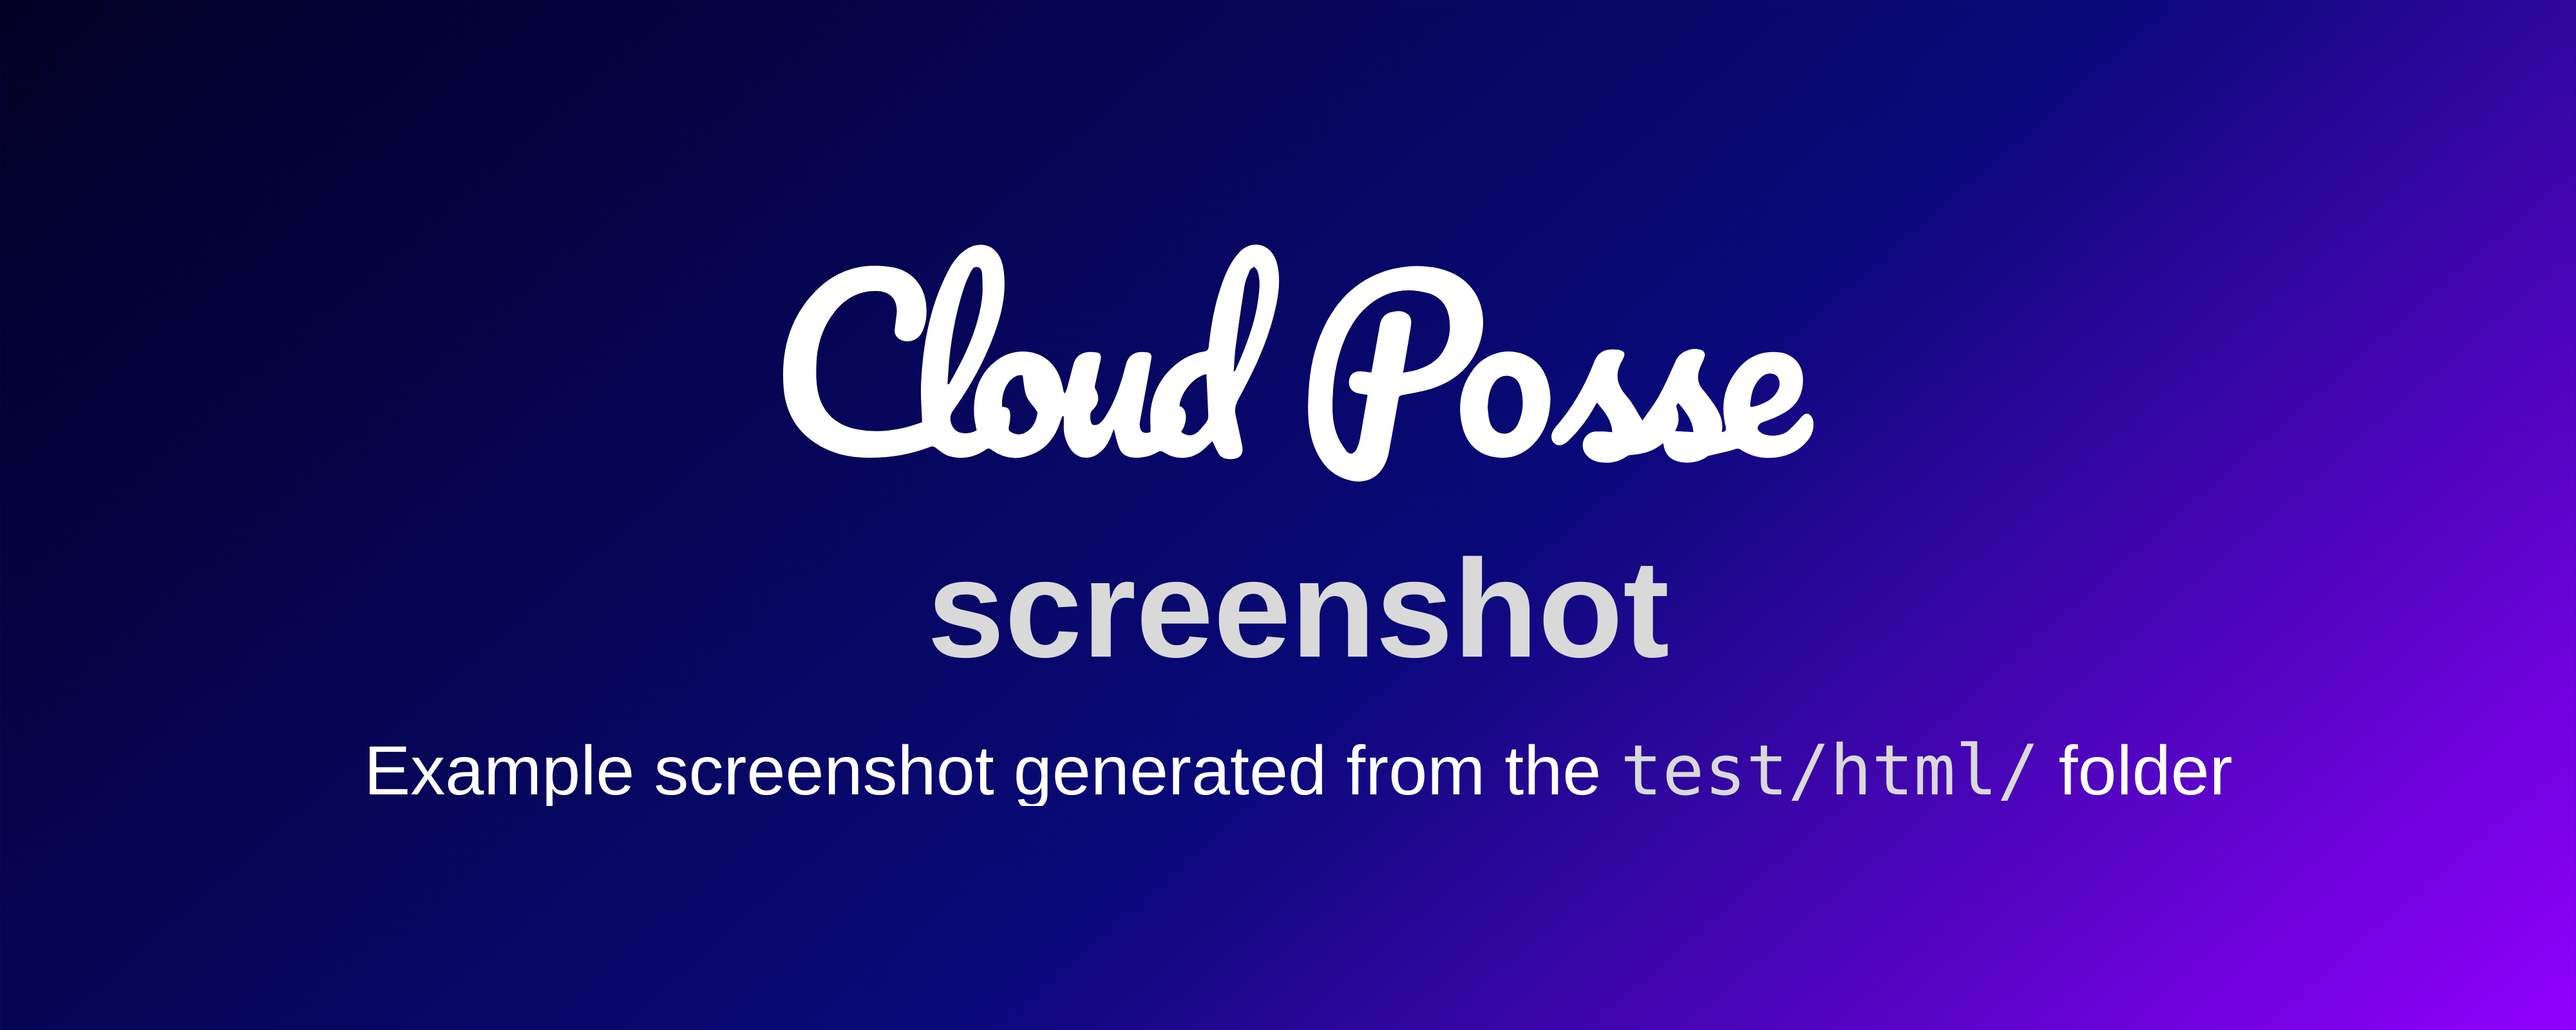
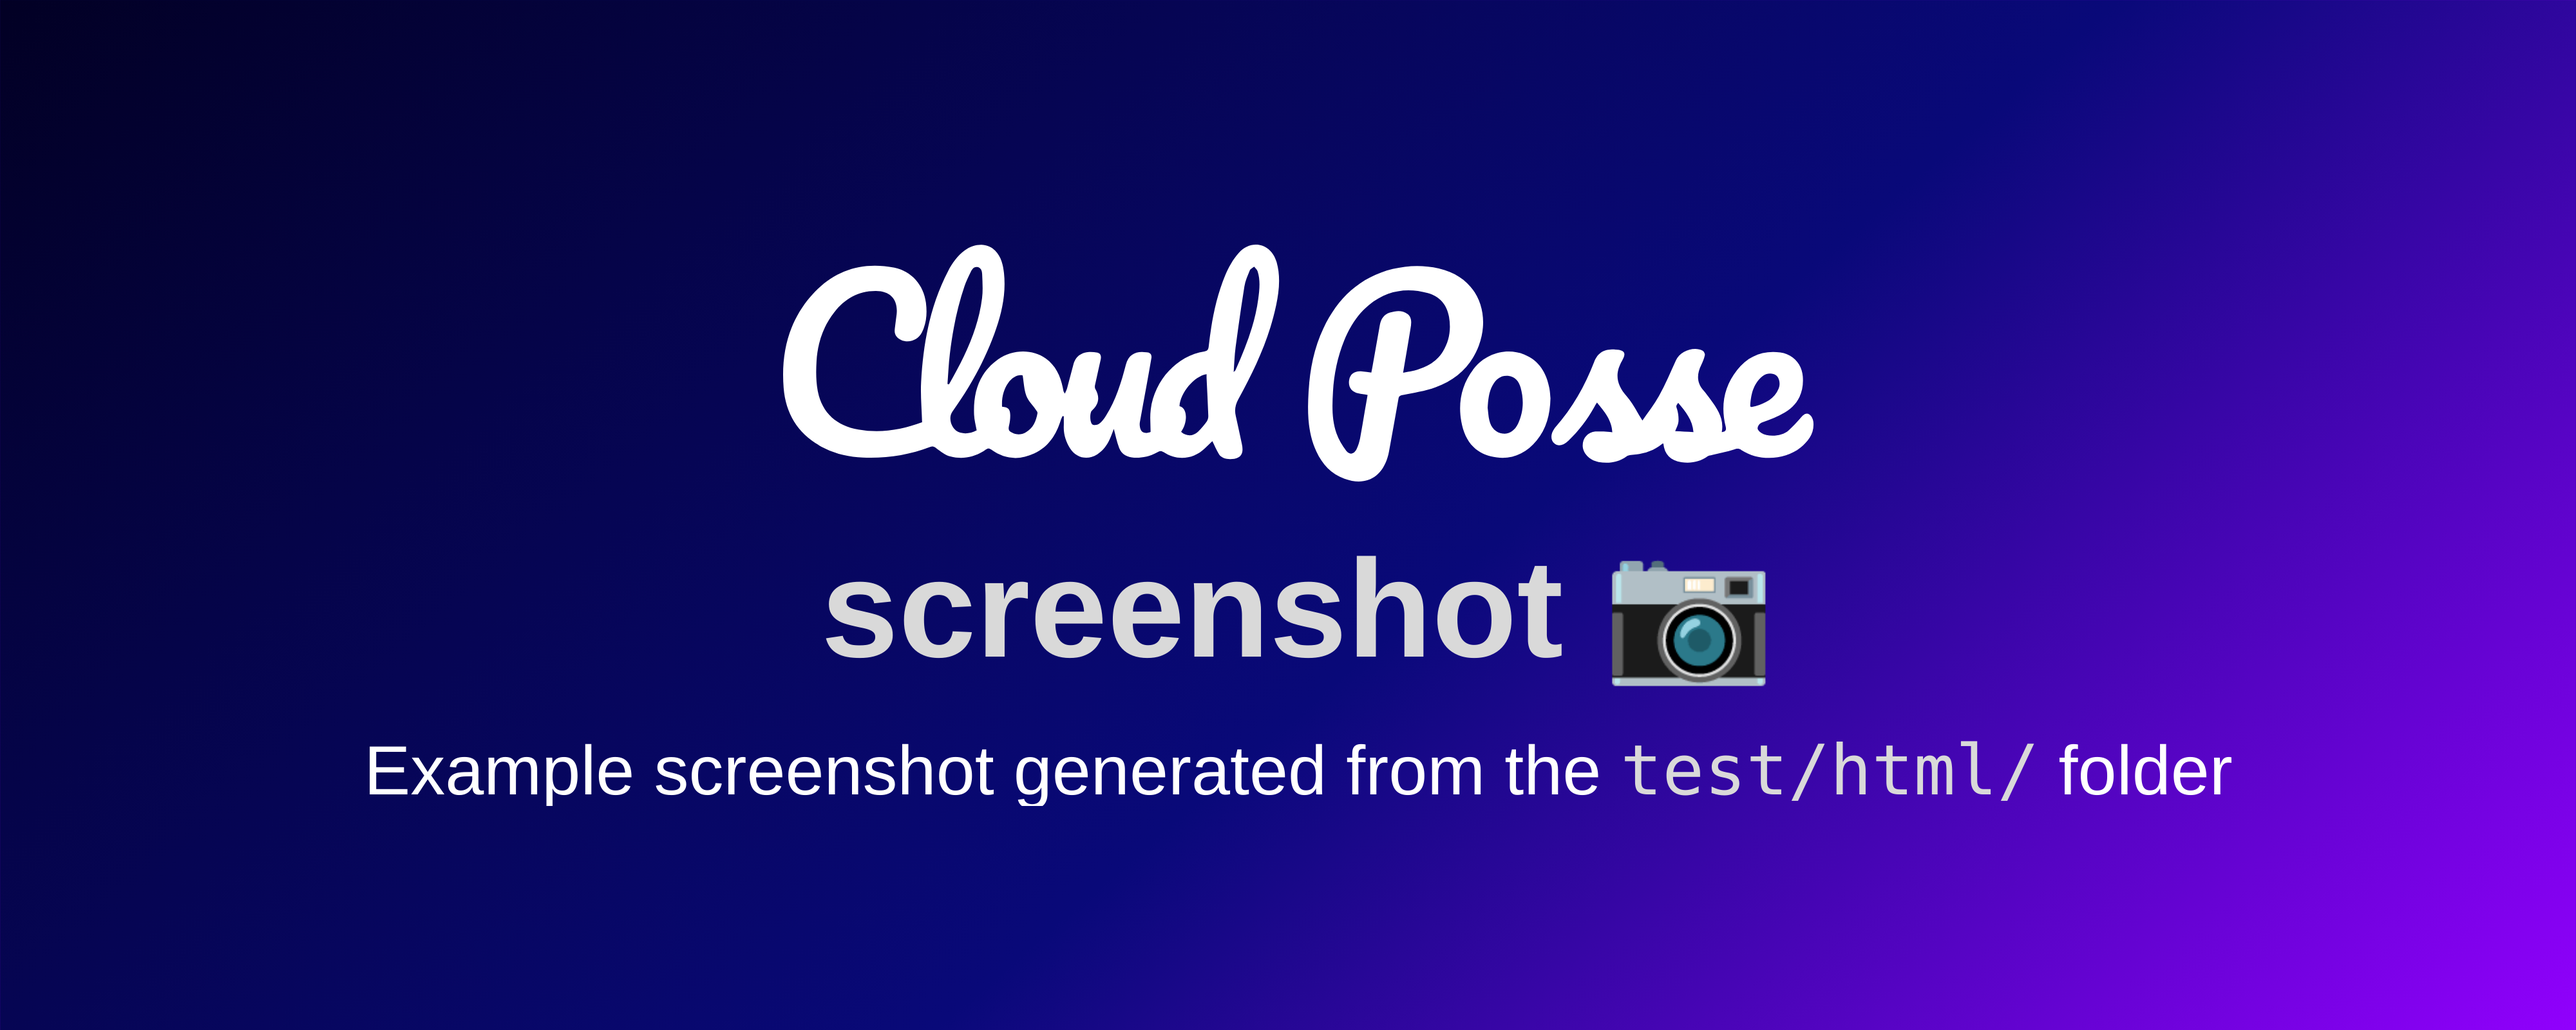
Fix UTF8 Rendering of Emojis (#5)

Changed region(s): [[0.3125, 0.5312, 0.6875, 0.6875]]

diff --git a/test/html/index.html b/test/html/index.html
@@ -1,5 +1,6 @@
 <html>
   <head>
+    <meta charset="UTF-8">
     <title>Cloud Posse</title>
     <style>
     body {
